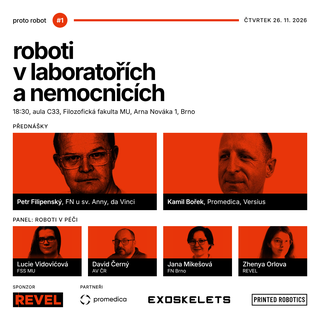
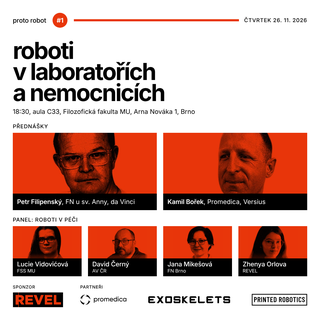
#1: Orlova manual face box, centred
Claude-Session: https://claude.ai/code/session_01UCnr32FKNaKDppzBLak19a

Changed region(s): [[0.7812, 0.6875, 0.9375, 0.8125]]

diff --git a/tools/pages/cutouts_1.py b/tools/pages/cutouts_1.py
@@ -20,7 +20,7 @@ SRC = {
  'mikesova': A + '5141ef10-image.jpg',
  'orlova': A + '0b8213bf-image.png',
 }
-FACE = {'vidovicova': (380, 200, 300, 350)}   # manual face box (x, y, w, h) in source px where the detector misfires
+FACE = {'vidovicova': (380, 200, 300, 350), 'orlova': (300, 140, 220, 230)}   # manual face box (x, y, w, h) in source px where the detector misfires
 ROOT = pathlib.Path(__file__).resolve().parents[2]
 OUT = ROOT / 'brand/speakers-1'; OUT.mkdir(exist_ok=True)
 SITE = ROOT / 'img/1'
